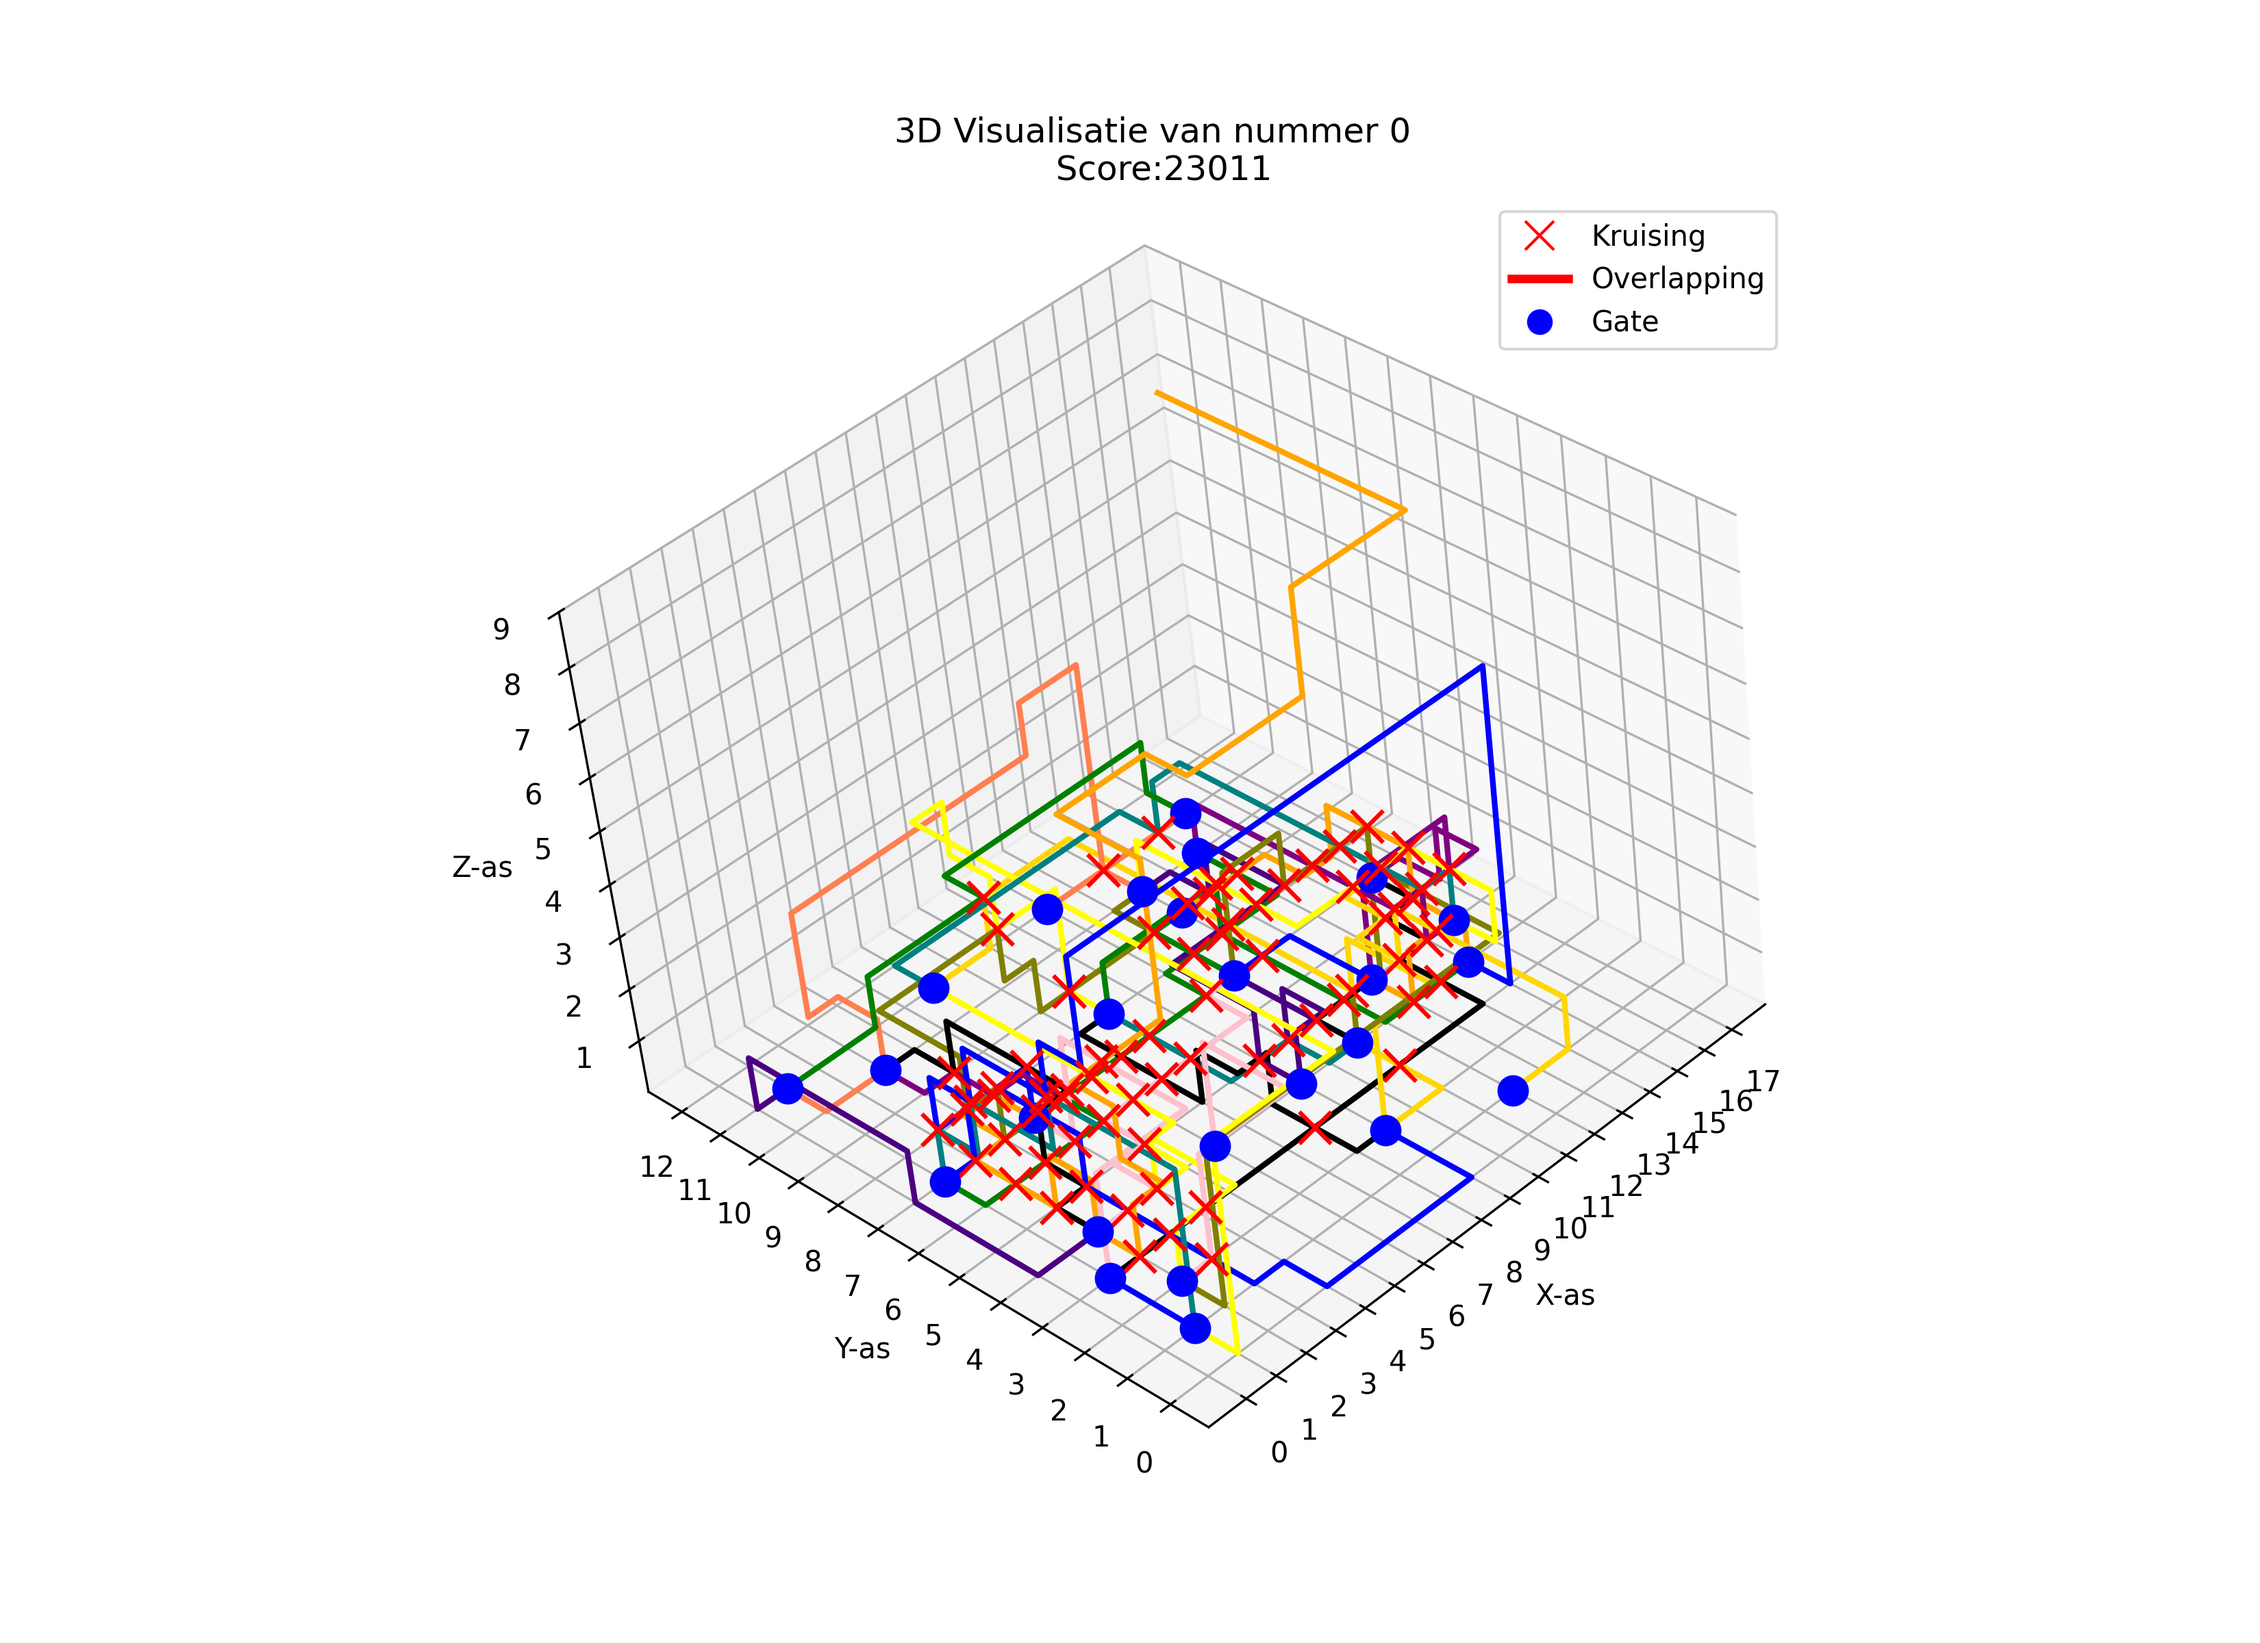
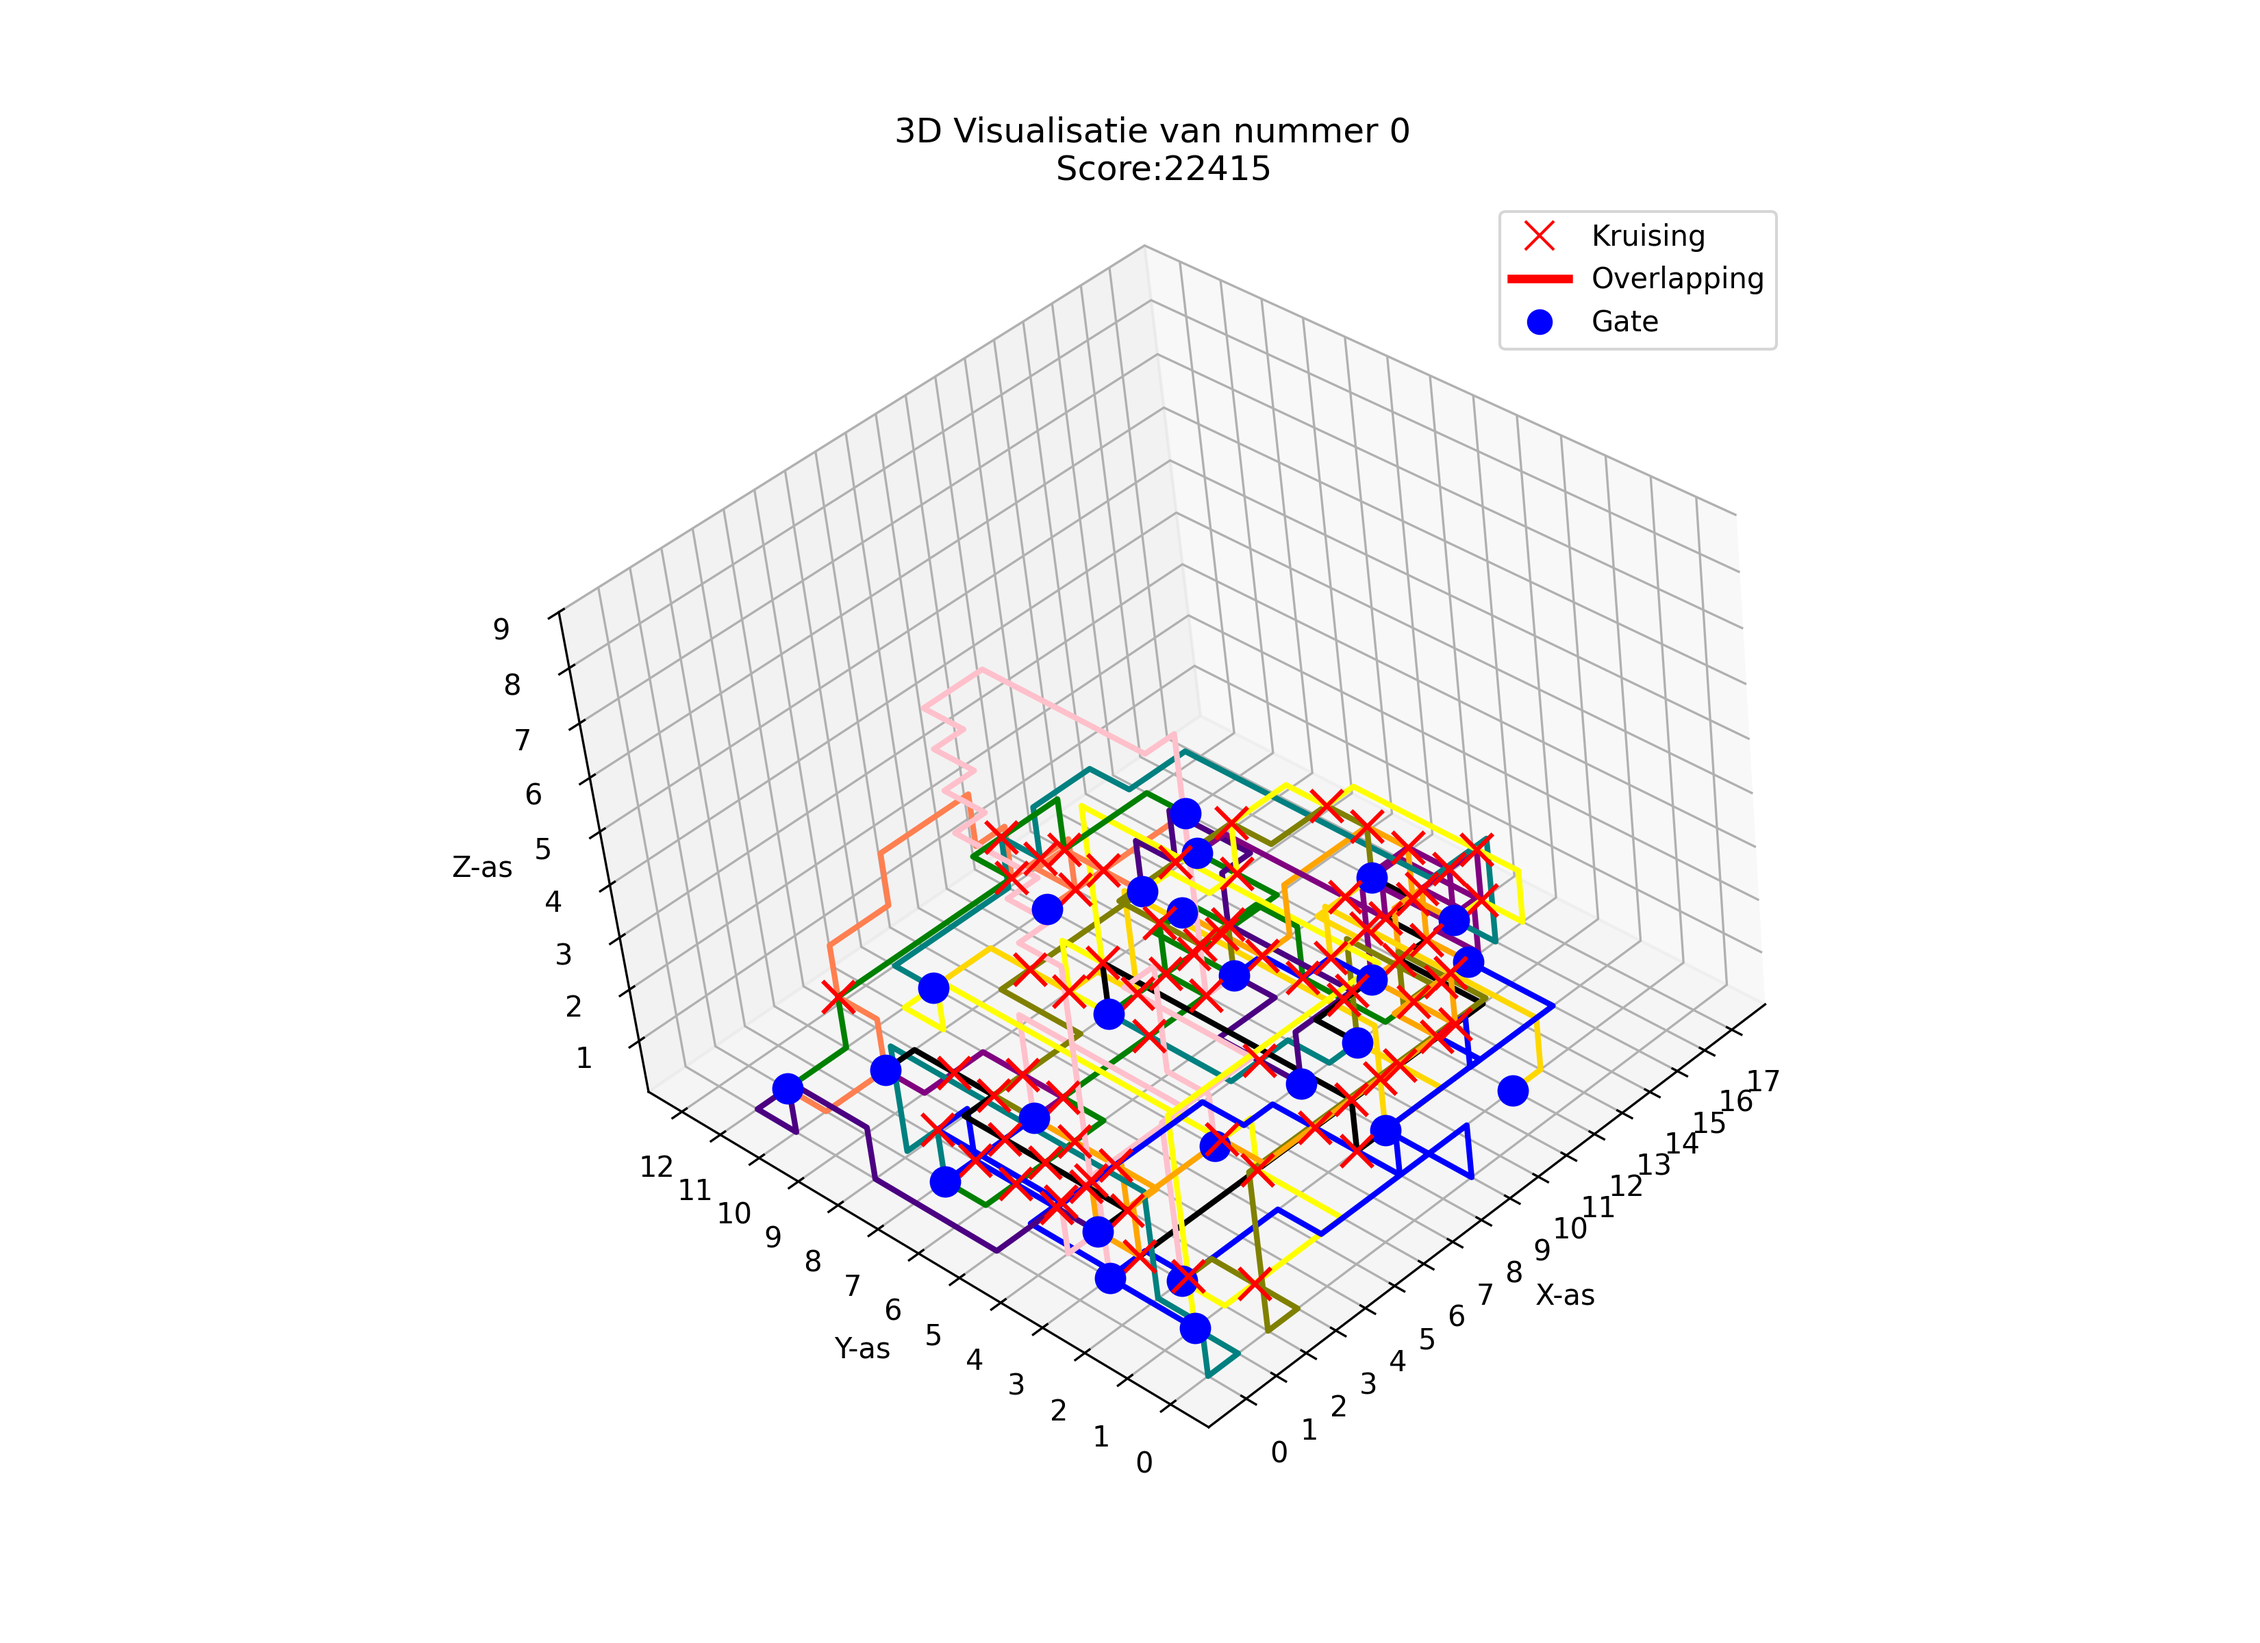
grid reset gemaakt en looper voor iterations gemaakt

diff --git a/main.py b/main.py
@@ -18,7 +18,7 @@ if __name__ == "__main__":
     start_obj = auto_functions(grid_edit_obj)
     algorithm_obj= MD(grid_edit_obj)
     netlist_reorder_obj=netlist_reordering(grid_edit_obj)
-    hil_climber_obj=hil_climber(grid_edit_obj)
+    #hil_climber_obj=hil_climber(grid_edit_obj)
     
     # Path van de grid en netlist die je wilt oplossen.
     grid_path="data/chip_1/print_1.csv"
@@ -29,7 +29,7 @@ if __name__ == "__main__":
 
 
     #----------------Netlist passer------------------------
-    #netlist_list=netlist_reorder_obj.netlist_reorder(netlist_path)
+    netlist_list=netlist_reorder_obj.netlist_reorder(netlist_path)
     netlist_list=user_input_obj.load_netlist(netlist_path)
     
 
@@ -38,18 +38,19 @@ if __name__ == "__main__":
 
 
     #----------------Hill climber---------------------------
-    reset_wires = 5 #hoeveel wires je per keer wilt laten verwijderen en opnieuw leggen
-    reloop_time = 5 # de hoeveelheid tijd in minuten dat het opnieuw gaat lopen
-    hil_climber_obj.start_hill_climb(reset_wires, netlist_list, reloop_time) #wertk nog niet
+    # reset_wires = 5 #hoeveel wires je per keer wilt laten verwijderen en opnieuw leggen
+    # reloop_time = 5 # de hoeveelheid tijd in minuten dat het opnieuw gaat lopen
+    #hil_climber_obj.start_hill_climb(reset_wires, netlist_list, reloop_time) #wertk nog niet
 
     #-----------------resulten------------------------------
     wirecount = grid_edit_obj.update_wirecount()
-    succes = grid_edit_obj.check_all_overlaps() 
+    # succes = grid_edit_obj.check_all_overlaps() 
     grid_edit_obj.find_wirecross() 
 
     # scores bepalen
     output_obj.costen_berekening(wirecount)
-    user_input_obj.score_request(wirecount)
+    print(grid_edit_obj.score)
+    #user_input_obj.score_request(wirecount)
 
     #----------------visualisatie----------------------------
     
@@ -61,4 +62,32 @@ if __name__ == "__main__":
     #output_obj.write_to_csv(grid_edit_obj.wirepaths_list, grid_edit_obj.overlapping_lijst, wirecount)
    
     # 3d visualisatie
-    output_obj.visualisatie()
+    #output_obj.visualisatie()
+    # for i in range(2):
+    #     grid_edit_obj.reset_grid()
+    #     netlist_list=netlist_reorder_obj.netlist_reorder(netlist_path)
+    #     netlist_list=user_input_obj.load_netlist(netlist_path)
+    #     algorithm_obj.netlist_looper(netlist_list)
+    #     wirecount = grid_edit_obj.update_wirecount()
+    #     grid_edit_obj.find_wirecross() 
+    #     output_obj.costen_berekening(wirecount)
+    #     print(grid_edit_obj.score)
+    
+    # ----------------iteration runner----------------------------
+    # for i in range(20):
+    #     grid_edit_obj.reset_grid()  # Reset the grid while keeping the gates in place
+
+    #     # Load and reorder netlist
+    #     netlist_list = user_input_obj.load_netlist(netlist_path)  
+
+    #     # Run the algorithm on the netlist
+    #     algorithm_obj.netlist_looper(netlist_list)
+
+    #     # Calculate wire count and wire crossings
+    #     wirecount = grid_edit_obj.update_wirecount()
+    #     grid_edit_obj.find_wirecross() 
+
+    #     # Compute cost and score
+    #     output_obj.costen_berekening(wirecount)
+
+    #     print(f"Iteration {i+1} Score: {grid_edit_obj.score}")

diff --git a/code/algorithms/manhattan_distance.py b/code/algorithms/manhattan_distance.py
@@ -3,6 +3,7 @@ import csv, os
 import heapq
 import random
 import time
+import numpy as np
 
 random.seed(10)
 
@@ -67,7 +68,7 @@ class ManhattanDistance():
         Returns:
             bool: True if wires don't run parallel, False otherwise
         """
-        
+        # coordinates of the neigbor
         y, x, z = neighbor
         
         # checks if the position is in the grid
@@ -157,8 +158,13 @@ class ManhattanDistance():
                 
                 # cost for moving to the neighbor
                 new_cost = current_cost[current] + 1
+                
+                # extra penalty for unnecessary turns
+                # if path_traversed.get(current) and path_traversed[current] != neighbor:
+                #     new_cost += 1
+
                 if intersection_check:
-                    new_cost += 5
+                    new_cost += 300
 
                 if neighbor not in current_cost or new_cost < current_cost[neighbor]:
                     # updates costs to that of the neighbor
@@ -252,7 +258,30 @@ class ManhattanDistance():
         print(self.grid_edit.wirepaths_list)
         print("")
 
-    def run(self, iterations):
-        """
-        Run the algorithm for the given amount of iterations
-        """
+    # def run(self, iterations):
+    #     """
+    #     Run the algorithm for the given amount of iterations
+    #     Also used to see which parameters give the lowest score
+    #     """
+    #     lowest_score = float('inf')
+    #     ls_avg = float('inf')
+    #     ls_std = float('inf')
+
+    #     grid_edit_obj = grid_edit()
+    #     user_input_obj = user_input(grid_edit_obj)
+    #     output_obj = output(grid_edit_obj)
+    #     start_obj = auto_functions(grid_edit_obj)
+    #     algorithm_obj= MD(grid_edit_obj)
+    #     netlist_reorder_obj=netlist_reordering(grid_edit_obj)
+    #     grid_path="data/chip_1/print_1.csv"
+    #     netlist_path="data/chip_1/netlist/netlist_2.csv"
+
+    #     for iteration in range(interations):
+    #         start_obj.Auto_start_functie(grid_path)
+    #         netlist_list=netlist_reorder_obj.netlist_reorder(netlist_path)
+    #         netlist_list=user_input_obj.load_netlist(netlist_path)
+    #         algorithm_obj.netlist_looper(netlist_list)
+    #         wirecount = grid_edit_obj.update_wirecount()
+    #         grid_edit_obj.find_wirecross() 
+    #         output_obj.costen_berekening(wirecount)
+    #         print(grid_edit_obj.score)

diff --git a/code/classes/grid_edit.py b/code/classes/grid_edit.py
@@ -286,3 +286,23 @@ class grid_edit:
             reverse_parallel = (wire[i + 1], wire[i])
             self.parallel_set.remove(parallel)
             self.parallel_set.remove(reverse_parallel)
+    
+    def reset_grid(self):
+        """Resets the grid while keeping gate positions intact."""
+        # Create a fresh grid with all zeros
+        self.grid_create(self.maximum_y, self.maximum_x)
+
+        self.gate_nr = gate_nrstart
+        # Restore gate positions from gate_dict
+        for gate_nr, (y, x, z) in self.gate_dict.items():
+            self.grid[z][y][x] = gate_nr  # Keep gate numbers in place
+        
+        # Reset wire-related data
+        self.wirepaths_list = []
+        self.parallel_set = set()
+        self.wirecross_list = []
+        self.overlapping_lijst = []
+        self.wirecount = 0
+        self.wirecrosscount = 0
+
+        print("Grid reset! Gates remain, but all wires are removed.")
